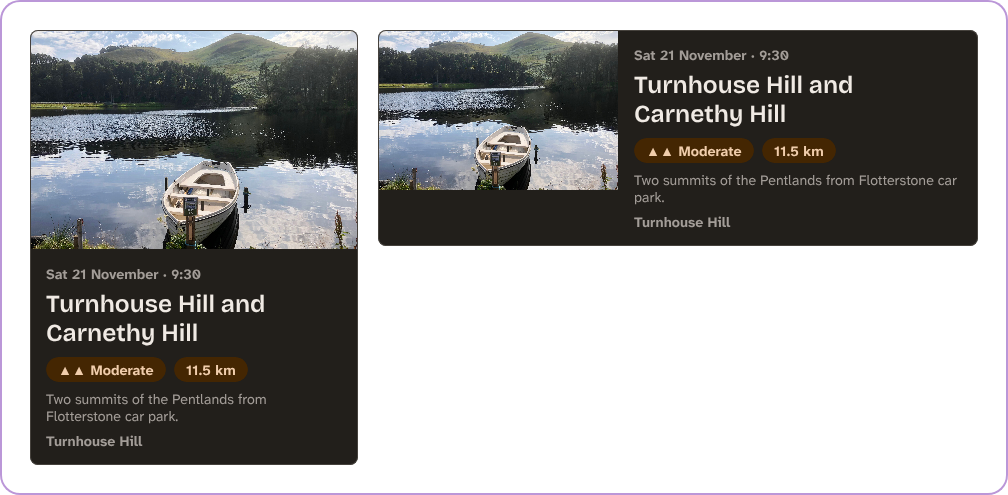
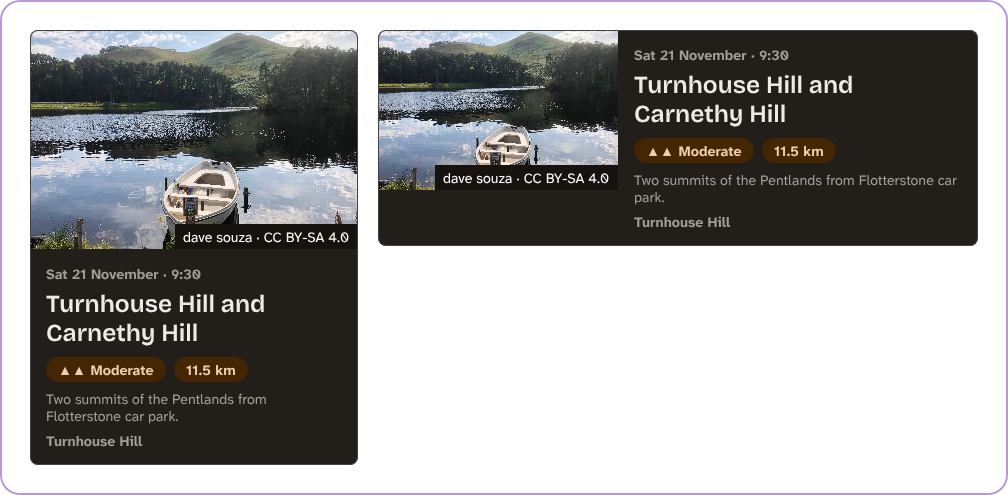
Chapter 4: the photo's credit on the hike card, over the photo's corner

Changed region(s): [[0.1538, 0.4545, 0.369, 0.5152], [0.4306, 0.3333, 0.6151, 0.3939]]

diff --git a/PROJECT-LOG.md b/PROJECT-LOG.md
@@ -10,7 +10,7 @@ Read this first when picking the work up in a new session.
 
 - **2026-11-07: the book was started.** Scaffold, research, the test sites (built from Book 1's export) and `OUTLINE.md` (reviewed and accepted by the author) are on `chore/scaffold`; the remote is `github.com/drupalviking/theming-drupal`, and the author pushes. Nothing is drafted.
 - **Chapter 3 drafted** on `feature/chapter-03-design` (2026-11-07), waiting for the author's review: `manuscript/03-designing-lens-and-trail.md`, 16 figures. The author picked palette **B, Old Town sandstone** and font pair **3, Bricolage Grotesque + Atkinson Hyperlegible Next** (options page: https://claude.ai/artifact/PNXN3sTZMCA7yvh3sXqo74). Next, after the review: Chapter 4, *The Design in Penpot*.
-- **Chapter 4 started** on the same branch (the author, 2026-11-08): grilling done, all of Claude's recommendations (see Decisions: Chapter 4). Penpot's MCP is connected (2026-11-08) to the author's file **Lens & Trail** (one page, empty). `code/chapter04/lens-and-trail-tokens.json` is written (generated once from Chapter 3's values; contrast and references checked) and **imported into the file**: 101 tokens in 5 sets, 4 themes, all resolved; a font family, font size and shadow token tested on throwaway shapes (removed). The author's choices (2026-11-08): Penpot's **light** interface for screenshots; the author's name and team may show, the **email is hidden**. The by-hand token steps are screenshotted (`manuscript/images/04-*.png`, 12 so far, in Claude's own Penpot tab). The author merged `feature/chapter-03-design` (with the first Chapter 4 commits); Chapter 4 continues on **`feature/chapter-04-penpot`** (the author said yes, 2026-11-08). The author chose to have it **written as we go**: `manuscript/04-the-design-in-penpot.md` has the opening, the account and file, and the token sections (12 figures); the Try it was checked in Penpot. **Fonts tested on upload**: Penpot takes our variable TTFs as one "Regular" style with no family name, so nothing was uploaded; Penpot's own Google Fonts copies have both fonts (7 weights; no width or optical size axis). The author: **use Penpot's copies** in the design (our files stay for the themes), and **describe sign-up in words** (no sign-up screenshots). The empty "Board" was removed. **The hike card** is built (page *Components*): a component with two variants (Layout: Photo on top, Photo beside), every value a token, checked in dark mode; Book 1's photo of Glencorse Reservoir (dave souza, CC BY-SA 4.0). By hand up to the date line and the component/variant steps, the rest through the MCP (a `%%` note asks to walk it by hand once more). Found: Penpot's number keys set opacity on a selected shape (a warning box in the chapter). **The hike page on a phone** is built (page *Wireframes*, board *Hike page, phone*, 360 wide from the iPhone 12 Mini preset): Key facts in a **grid layout** (2 columns 1fr, rows auto), a **Button** component on *Components* used as an instance (Directions), Book 1's Carnethy Hill photos (Jim Barton, Alan O'Dowd, CC BY-SA 2.0) in the albums; checked in dark mode; chapter Figures 4.23 to 4.27. By hand: the page, board, its layout and tokens, the grid and its rows, dragging the button from Assets; the rest through the MCP. Found: the token right-click menu on a board inside a layout is taller than a laptop screen (Gaps → All cut off); a drop from Assets lands in the board under the pointer; Ctrl+D in a full grid adds a column. The page board has a 2x PNG export setting. Open for the author: where a photo's credit goes on the card (Claude recommends over the photo's corner, as on the hero; not built yet). Next: the other wireframes through the MCP.
+- **Chapter 4 started** on the same branch (the author, 2026-11-08): grilling done, all of Claude's recommendations (see Decisions: Chapter 4). Penpot's MCP is connected (2026-11-08) to the author's file **Lens & Trail** (one page, empty). `code/chapter04/lens-and-trail-tokens.json` is written (generated once from Chapter 3's values; contrast and references checked) and **imported into the file**: 101 tokens in 5 sets, 4 themes, all resolved; a font family, font size and shadow token tested on throwaway shapes (removed). The author's choices (2026-11-08): Penpot's **light** interface for screenshots; the author's name and team may show, the **email is hidden**. The by-hand token steps are screenshotted (`manuscript/images/04-*.png`, 12 so far, in Claude's own Penpot tab). The author merged `feature/chapter-03-design` (with the first Chapter 4 commits); Chapter 4 continues on **`feature/chapter-04-penpot`** (the author said yes, 2026-11-08). The author chose to have it **written as we go**: `manuscript/04-the-design-in-penpot.md` has the opening, the account and file, and the token sections (12 figures); the Try it was checked in Penpot. **Fonts tested on upload**: Penpot takes our variable TTFs as one "Regular" style with no family name, so nothing was uploaded; Penpot's own Google Fonts copies have both fonts (7 weights; no width or optical size axis). The author: **use Penpot's copies** in the design (our files stay for the themes), and **describe sign-up in words** (no sign-up screenshots). The empty "Board" was removed. **The hike card** is built (page *Components*): a component with two variants (Layout: Photo on top, Photo beside), every value a token, checked in dark mode; Book 1's photo of Glencorse Reservoir (dave souza, CC BY-SA 4.0). By hand up to the date line and the component/variant steps, the rest through the MCP (a `%%` note asks to walk it by hand once more). Found: Penpot's number keys set opacity on a selected shape (a warning box in the chapter). **The hike page on a phone** is built (page *Wireframes*, board *Hike page, phone*, 360 wide from the iPhone 12 Mini preset): Key facts in a **grid layout** (2 columns 1fr, rows auto), a **Button** component on *Components* used as an instance (Directions), Book 1's Carnethy Hill photos (Jim Barton, Alan O'Dowd, CC BY-SA 2.0) in the albums; checked in dark mode; chapter Figures 4.23 to 4.27. By hand: the page, board, its layout and tokens, the grid and its rows, dragging the button from Assets; the rest through the MCP. Found: the token right-click menu on a board inside a layout is taller than a laptop screen (Gaps → All cut off); a drop from Assets lands in the board under the pointer; Ctrl+D in a full grid adds a column. The page board has a 2x PNG export setting. **The card's photo credit** goes over the photo's bottom-right corner (the author, 2026-11-08): a `Media` board with the photo and a `Credit` label (white `color.neutral.0` on solid `color.neutral.950`, the same in both modes; Penpot resets a fill's opacity when a color token is applied), on both variants, through the MCP. Next: the other wireframes through the MCP.
 - **The folder** is still `themeing-drupal`. It will be renamed to `theming-drupal` (the author, 2026-11-07); do it outside a Claude session that has it as its working directory.
 - **The test sites** (DDEV, outside this repository), built by `tools/setup.sh` from Book 1's export at the commit in `data/book1.yml` (2026-11-07: `223b3ca`, on Book 1's `chore/export-site-recipe`, not merged yet):
   - `~/websites/open-university/lens-and-trail-theme`: Book 1's core site (Drupal 12.0.0-beta2, Olivero). `https://lens-and-trail-theme.ddev.site:8443`, `admin` / `12345`.

diff --git a/manuscript/04-the-design-in-penpot.md b/manuscript/04-the-design-in-penpot.md
@@ -236,10 +236,21 @@ The two **badges** (difficulty and distance) are small boards of their own: a te
 
 Last, the card itself: a `color.surface` fill, a `border.thin` stroke in `color.border` (right-click the color token and choose **Stroke**), a `radius.medium` corner, **Clip content** on, so the photo's corners are rounded too, and its height set to **Fit content**, so it's always as tall as what's in it.
 
-%% Author: the steps up to the date were done by hand in Penpot, as written. The rest of the card (title, badges, teaser, area, and the card's own fill, stroke, corner and clipping) was built through Penpot's MCP server with the same properties and tokens; walk them by hand once more before the chapter is final, to check the clicks. The difficulty icon is "▲▲" in text for now; the Lucide icon comes with the icons. Chapter 3 says a photo's credit is shown even on a card, but its card figure has none: where does the credit go on the card (over the photo's corner, or in small type under it)? %%
+%% Author: the steps up to the date were done by hand in Penpot, as written. The rest of the card (title, badges, teaser, area, and the card's own fill, stroke, corner and clipping) was built through Penpot's MCP server with the same properties and tokens; walk them by hand once more before the chapter is final, to check the clicks. The difficulty icon is "▲▲" in text for now; the Lucide icon comes with the icons. The credit goes over the photo's bottom corner (the author, 2026-11-08). %%
 
 ![The finished hike card in Penpot with the Hike card board selected: the photo, the date, the title in Bricolage Grotesque, the Moderate and 11.5 km badges, the teaser and the area. The Layers list shows Photo and Body, with Date, Title, Badges, Teaser and Area inside Body; the Design panel shows the fill color.surface as a token](images/04-card-tokens.png)
 *Figure 4.17: The hike card. Every color, size and space in it is a token.*
+
+### The photo's credit
+
+Chapter 3 promised that every photo keeps its credit, even on a card. On the card, it goes where it takes no room: over the photo's bottom-right corner, in small white type on a dark label, as on the hero.
+
+1. Select `Photo`, right-click it and choose **Selection to board**. Name the new board `Media`. It holds the photo and, in a moment, the credit on top of it.
+2. With the **Text** tool, click inside `Media` and type `dave souza · CC BY-SA 4.0`. Apply `font.family.body`, `font.size.step--1` and `font.weight.regular`, and right-click `color.neutral.0` in the `values` set and choose **Fill**.
+3. Select the text, choose **Selection to board** again, and name the board `Credit`. Give it a **Flex layout**, `space.2xs` padding at the sides (**Paddings → Horizontal**) and `space.3xs` at the top and bottom (**Paddings → Vertical**), and a `color.neutral.950` fill.
+4. Drag `Credit` to the photo's bottom-right corner. Under **Constraints** in the **Design** panel, set it to **Right** and **Bottom**, so it stays in the corner when the photo changes size.
+
+The credit's colors are values, not roles: white on near-black in light *and* dark mode, because the photo under it is the same photo in both. (A label at 75% opacity would let the photo show through, but Penpot sets a fill to full opacity when you apply a color token, so the club's label is solid. It's easier to read that way, too.)
 
 ### A component, and a variant
 
@@ -266,12 +277,12 @@ Penpot puts the card and a copy of it in a new board with a purple outline, the 
 2. Rename the property to `Layout`, and give the two variants the values `Photo on top` and `Photo beside`.
 3. Make the second one different: select it, set its layout's direction to a **row**, its width to `600`, and its photo to `240` by `160` (3:2 again).
 
-![The two variants of the hike card: on the left, the photo on top of the text; on the right, a wider card with the photo on the left and the date, title, badges, teaser and area beside it](images/04-hike-card-variants.png)
+![The two variants of the hike card: on the left, the photo on top of the text; on the right, a wider card with the photo on the left and the date, title, badges, teaser and area beside it. Both photos have the credit dave souza, CC BY-SA 4.0, on a dark label in their bottom-right corner](images/04-hike-card-variants.png)
 *Figure 4.21: The hike card's two variants, Photo on top and Photo beside.*
 
 > **Try it:** Choose **Dark** in the Themes menu, and look at the card. Nothing in it was drawn twice: every color is a role, and the roles point at the dark values now.
 
-![The same two variants in dark mode: a dark brown card, light text, the title in near-white, and the badges dark sandstone with light text](images/04-hike-card-dark.png)
+![The same two variants in dark mode: a dark brown card, light text, the title in near-white, the badges dark sandstone with light text, and the photo credits unchanged, white on near-black](images/04-hike-card-dark.png)
 *Figure 4.22: The same card with the Dark theme. That's what the two tiers of tokens are for.*
 
 ## The hike page on a phone
@@ -369,6 +380,6 @@ The map stays a grey box: it's a placeholder for something the theme builds late
 ![The same hike page in dark mode: a near-black page, light text, dark raised boxes for the facts, a light green Directions button with dark text, and a dark grey map](images/04-hike-page-phone-dark.png)
 *Figure 4.27: The hike page with the Dark theme.*
 
-%% Author: done by hand in Penpot, as written: the Wireframes page, the board from the iPhone 12 Mini preset, its layout, fill, padding and gap, the Key facts board with its grid layout, row gap and auto rows, and dragging the button from Assets. Done through the MCP server with the same tokens: the column gap of Key facts (the token menu was too tall for the screen: its top, with Gaps → All, was cut off; check how a reader on a laptop gets to it), the four facts, the Button main component, and the rest of the page. Checked by hand: Ctrl+D in a full grid adds a third column; Ctrl+D into an empty cell wasn't tried (the grid was already full). Figures 4.26 and 4.27 are exported at 1x (360 pixels wide) and could use a 2x export for print. The card's photo credit is still open (over the photo's corner, or under it); the card has none yet. %%
+%% Author: done by hand in Penpot, as written: the Wireframes page, the board from the iPhone 12 Mini preset, its layout, fill, padding and gap, the Key facts board with its grid layout, row gap and auto rows, and dragging the button from Assets. Done through the MCP server with the same tokens: the column gap of Key facts (the token menu was too tall for the screen: its top, with Gaps → All, was cut off; check how a reader on a laptop gets to it), the four facts, the Button main component, and the rest of the page. Checked by hand: Ctrl+D in a full grid adds a third column; Ctrl+D into an empty cell wasn't tried (the grid was already full). Figures 4.26 and 4.27 are exported at 1x (360 pixels wide) and could use a 2x export for print. The card's photo credit is built through the MCP (a Media board with the photo and an absolutely placed Credit board, constraints right and bottom); its steps weren't clicked by hand, and Figures 4.18 to 4.20 were taken before it was added. %%
 
 %% Author: next sections (to come): the other wireframes, exporting `design/tokens.json` and the Penpot file. %%

diff --git a/book/04-the-design-in-penpot.md b/book/04-the-design-in-penpot.md
@@ -314,6 +314,17 @@ Last, the card itself: a `color.surface` fill, a `border.thin` stroke in `color.
 ![The finished hike card in Penpot with the Hike card board selected: the photo, the date, the title in Bricolage Grotesque, the Moderate and 11.5 km badges, the teaser and the area. The Layers list shows Photo and Body, with Date, Title, Badges, Teaser and Area inside Body; the Design panel shows the fill color.surface as a token](images/04-card-tokens.png)
 *Figure 4.17: The hike card. Every color, size and space in it is a token.*
 
+### The photo's credit
+
+Chapter 3 promised that every photo keeps its credit, even on a card. On the card, it goes where it takes no room: over the photo's bottom-right corner, in small white type on a dark label, as on the hero.
+
+1. Select `Photo`, right-click it and choose **Selection to board**. Name the new board `Media`. It holds the photo and, in a moment, the credit on top of it.
+2. With the **Text** tool, click inside `Media` and type `dave souza · CC BY-SA 4.0`. Apply `font.family.body`, `font.size.step--1` and `font.weight.regular`, and right-click `color.neutral.0` in the `values` set and choose **Fill**.
+3. Select the text, choose **Selection to board** again, and name the board `Credit`. Give it a **Flex layout**, `space.2xs` padding at the sides (**Paddings → Horizontal**) and `space.3xs` at the top and bottom (**Paddings → Vertical**), and a `color.neutral.950` fill.
+4. Drag `Credit` to the photo's bottom-right corner. Under **Constraints** in the **Design** panel, set it to **Right** and **Bottom**, so it stays in the corner when the photo changes size.
+
+The credit's colors are values, not roles: white on near-black in light *and* dark mode, because the photo under it is the same photo in both. (A label at 75% opacity would let the photo show through, but Penpot sets a fill to full opacity when you apply a color token, so the club's label is solid. It's easier to read that way, too.)
+
 ### A component, and a variant
 
 1. Select the `Hike card` board in the **Layers** list.
@@ -339,12 +350,12 @@ Penpot puts the card and a copy of it in a new board with a purple outline, the 
 2. Rename the property to `Layout`, and give the two variants the values `Photo on top` and `Photo beside`.
 3. Make the second one different: select it, set its layout's direction to a **row**, its width to `600`, and its photo to `240` by `160` (3:2 again).
 
-![The two variants of the hike card: on the left, the photo on top of the text; on the right, a wider card with the photo on the left and the date, title, badges, teaser and area beside it](images/04-hike-card-variants.png)
+![The two variants of the hike card: on the left, the photo on top of the text; on the right, a wider card with the photo on the left and the date, title, badges, teaser and area beside it. Both photos have the credit dave souza, CC BY-SA 4.0, on a dark label in their bottom-right corner](images/04-hike-card-variants.png)
 *Figure 4.21: The hike card's two variants, Photo on top and Photo beside.*
 
 > **Try it:** Choose **Dark** in the Themes menu, and look at the card. Nothing in it was drawn twice: every color is a role, and the roles point at the dark values now.
 
-![The same two variants in dark mode: a dark brown card, light text, the title in near-white, and the badges dark sandstone with light text](images/04-hike-card-dark.png)
+![The same two variants in dark mode: a dark brown card, light text, the title in near-white, the badges dark sandstone with light text, and the photo credits unchanged, white on near-black](images/04-hike-card-dark.png)
 *Figure 4.22: The same card with the Dark theme. That's what the two tiers of tokens are for.*
 
 ## The hike page on a phone
